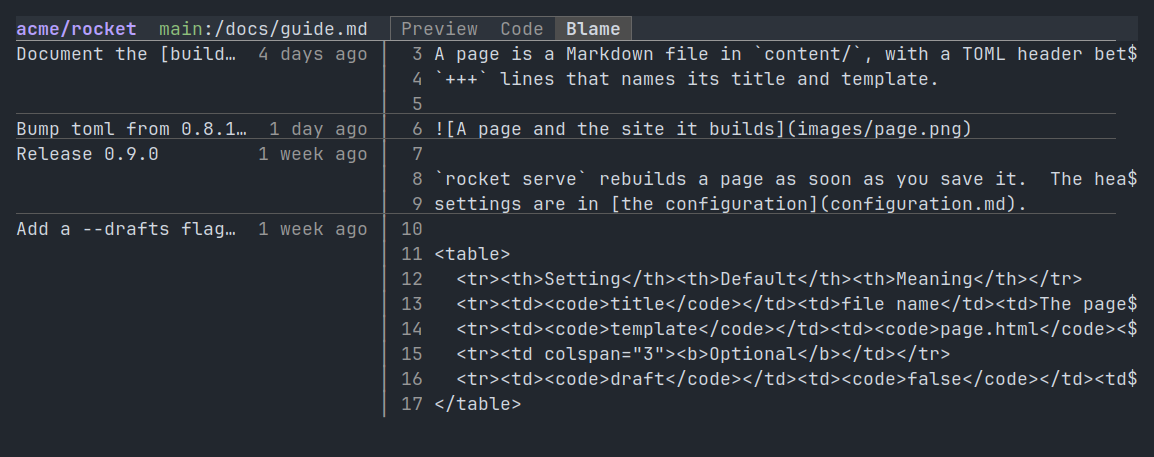
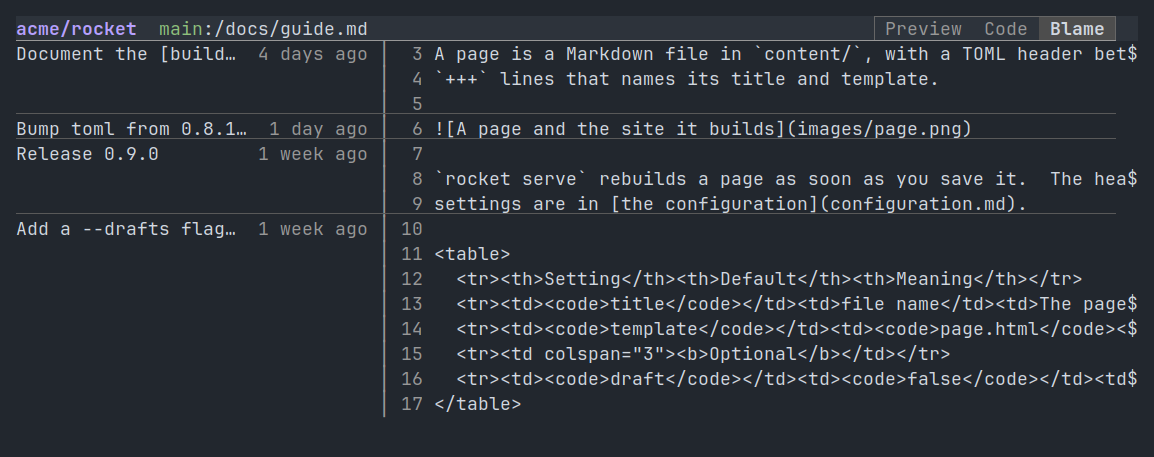
Keep a pinned header's switch of views at the right edge
A page's pill of views ends its top line at the right edge; pinned in
the header line it followed the title instead, so it moved when the
page was scrolled.  The pin now aligns it to the same column, cutting
the rest of the line to make room for it.

Changed region(s): [[0.7487, 0.0306, 0.9671, 0.0919], [0.3432, 0.0306, 0.5615, 0.0919]]

diff --git a/CHANGELOG.md b/CHANGELOG.md
@@ -4,6 +4,7 @@ All notable changes to this project will be documented in this file.
 The format is based on [Keep a Changelog](https://keepachangelog.com/en/1.0.0/).
 
 ## [Unreleased]
+* A pinned header keeps its switch of views at the right edge, as on the page
 * A diff's comments show and hide from a [Hide comments (N)] button, not a pill
 * A page's switch of views, as Diff | Tree | Patch, sits at the right edge of its line
 * `RET` on a changed file in a Tree view shows its diff, not the file
